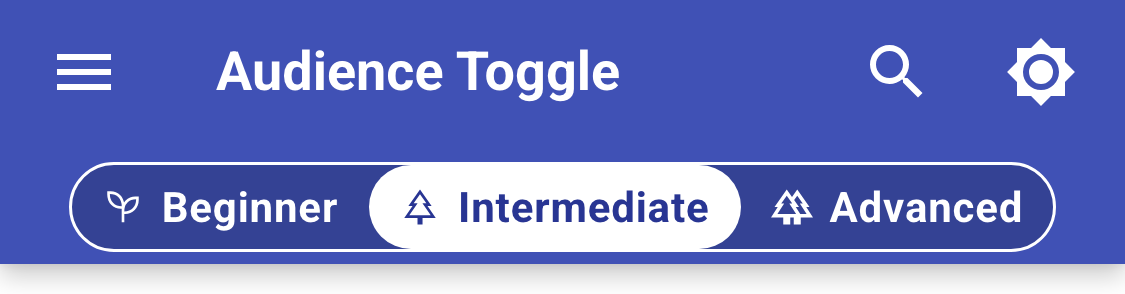
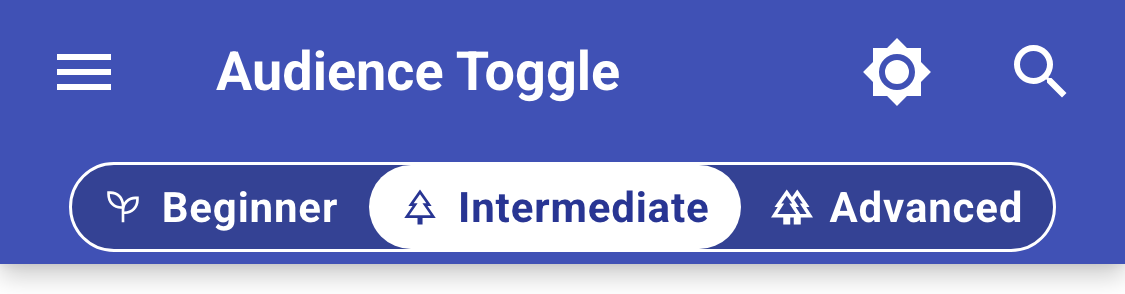
un-reorder toggle

Changed region(s): [[0.8711, 0.1224, 0.9644, 0.3673], [0.7467, 0.1224, 0.84, 0.3673]]

diff --git a/mkdocs_audience_toggle/static/audience_toggle.js b/mkdocs_audience_toggle/static/audience_toggle.js
@@ -95,6 +95,27 @@
     highlight.style.width = activeOption.offsetWidth + "px";
   }
 
+  // Material header only: if the toggle wrapped below the title, give it a row
+  // to itself (see .fcm-toggle--own-row in the CSS). Measured with the class
+  // off, so the toggle keeps its place whenever it fits.
+  function updateHeaderRow(container) {
+    var inner = container.parentElement;
+    if (!inner || !inner.classList.contains("md-header__inner")) return;
+    var title = inner.querySelector(".md-header__title");
+    if (!title) return;
+
+    container.classList.remove("fcm-toggle--own-row");
+    var wrapped = container.getBoundingClientRect().top >= title.getBoundingClientRect().bottom - 1;
+    container.classList.toggle("fcm-toggle--own-row", wrapped);
+  }
+
+  function refreshLayout() {
+    var container = document.getElementById("fcm-toggle");
+    if (!container) return;
+    updateHeaderRow(container);
+    positionHighlight(container, container.querySelector('.fcm-option[aria-pressed="true"]'));
+  }
+
   var toastTimer = null;
   function showToast(mode, config) {
     if (!config.showToast) return;
@@ -278,15 +299,11 @@
 
     applyState(container, initial, config);
     revealHashTargetIfHidden(container, config);
+    refreshLayout();
 
     // Label widths can change when a web font finishes loading.
     if (document.fonts && document.fonts.ready) {
-      document.fonts.ready.then(function () {
-        var current = document.getElementById("fcm-toggle");
-        if (!current) return;
-        var active = current.querySelector('.fcm-option[aria-pressed="true"]');
-        positionHighlight(current, active);
-      });
+      document.fonts.ready.then(refreshLayout);
     }
 
     // setUp runs on every page change with navigation.instant, so bind
@@ -301,12 +318,7 @@
 
     if (!window.__fcmResizeBound) {
       window.__fcmResizeBound = true;
-      window.addEventListener("resize", function () {
-        var current = document.getElementById("fcm-toggle");
-        if (!current) return;
-        var active = current.querySelector('.fcm-option[aria-pressed="true"]');
-        positionHighlight(current, active);
-      });
+      window.addEventListener("resize", refreshLayout);
     }
   }
 

diff --git a/mkdocs_audience_toggle/static/audience_toggle.css b/mkdocs_audience_toggle/static/audience_toggle.css
@@ -88,23 +88,18 @@
   }
 }
 
-/* Material header on narrow screens: if the toggle doesn't fit, wrap it onto
-   its own row, centered. Auto margins instead of full width, because the
-   options would stretch to fill it. */
+/* Material header on narrow screens: if the toggle doesn't fit next to the
+   title, the script adds .fcm-toggle--own-row, which moves it after the other
+   header buttons so it gets a row to itself. */
 @media (max-width: 45em) {
   .md-header__inner:has(> #fcm-toggle) {
     flex-wrap: wrap;
     row-gap: 0.2rem;
   }
 
-  .md-header__inner > #fcm-toggle {
-    order: 10;
+  .md-header__inner > #fcm-toggle.fcm-toggle--own-row {
+    order: 1;
     margin: 0.1rem auto 0.2rem;
-  }
-
-  .md-header__inner > .md-header__option,
-  .md-header__inner > .md-search {
-    order: 5;
   }
 }
 

diff --git a/tests/test_behavior.py b/tests/test_behavior.py
@@ -192,6 +192,25 @@ def test_toggle_drops_to_its_own_row_on_a_narrow_viewport(page, site_url):
     assert result["notStretched"], "toggle should not stretch to the full width"
 
 
+def test_toggle_keeps_its_place_on_a_narrow_viewport_when_it_fits(page, site_url):
+    """At 700px (below the 45em breakpoint) the toggle fits beside the title, so it
+    should stay before the header's other buttons instead of moving to its own row."""
+    page.set_viewport_size({"width": 700, "height": 400})
+    page.goto(site_url)
+    result = page.evaluate(
+        """() => {
+            const toggle = document.getElementById('fcm-toggle');
+            const option = document.querySelector('.md-header__option');
+            return {
+                ownRow: toggle.classList.contains('fcm-toggle--own-row'),
+                beforeOption: toggle.getBoundingClientRect().right <= option.getBoundingClientRect().left,
+            };
+        }"""
+    )
+    assert not result["ownRow"]
+    assert result["beforeOption"], "toggle should sit before the palette button"
+
+
 def test_toggle_stays_on_the_header_row_on_a_wide_viewport(page, site_url):
     """Compared against the title, because Material hides the hamburger at this width."""
     page.set_viewport_size({"width": 1280, "height": 720})

diff --git a/README.md b/README.md
@@ -140,6 +140,7 @@ Other options:
 | `show_toast`       | `true`                          | Show a short message after the mode changes.                                |
 
 Below 45em, if the toggle doesn't fit in Material's header row, it moves to its own row below it.
+When it fits, it stays next to the title.
 This needs browser support for CSS `:has()`. Without it, the toggle stays in the header row and
 can overflow on narrow screens.
 
